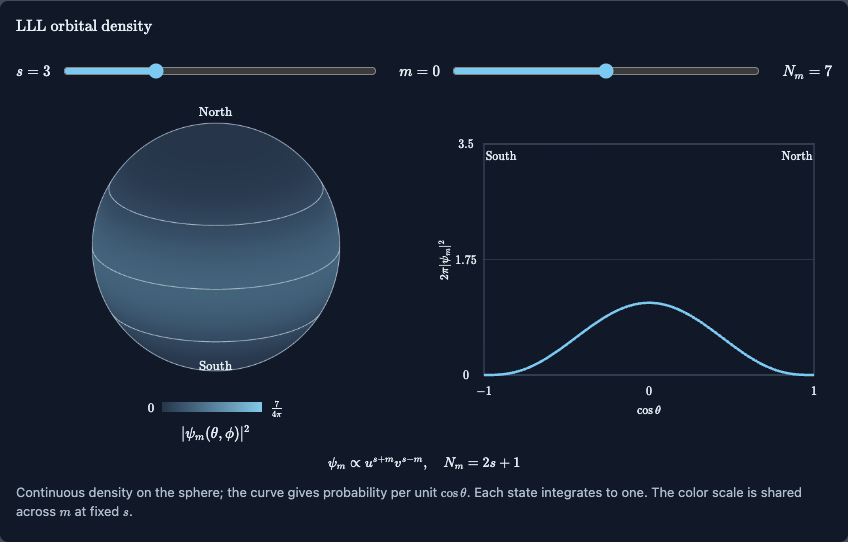
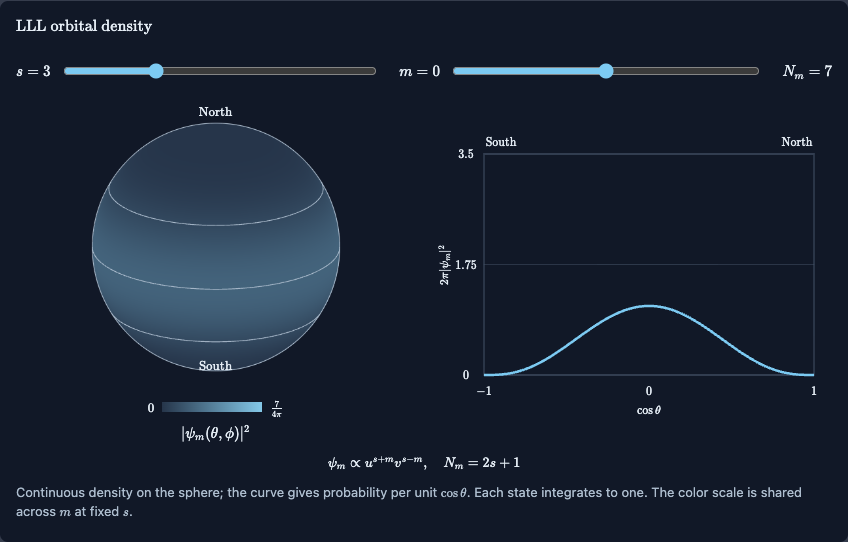
Keep orbital endpoint labels clear of density curves

diff --git a/public/notes/fuzzy-sphere-3d-cft/visuals/visuals.js b/public/notes/fuzzy-sphere-3d-cft/visuals/visuals.js
@@ -6,7 +6,7 @@
   const node=(name,attrs,parent)=>{const el=document.createElementNS(NS,name);Object.entries(attrs).forEach(([k,v])=>el.setAttribute(k,String(v)));parent.append(el);return el;};
   function plot(id, ymax, xticks, yticks, xlabel, ylabel, domain=null) {
     const root=document.getElementById(id);root.replaceChildren();
-    const w=root.clientWidth,h=root.clientHeight,box={left:51,top:16,right:w-18,bottom:h-43};
+    const w=root.clientWidth,h=root.clientHeight,box={left:51,top:id==='profile'?26:16,right:w-18,bottom:h-43};
     const svg=node('svg',{viewBox:`0 0 ${w} ${h}`,role:'img','aria-label':id==='profile'?'Normalized latitude probability density':'Scaling dimensions versus spin'},root);
     const label=(value,x,y,cls='')=>{const el=document.createElement('span');el.className='plot-label '+cls;el.style.left=x+'px';el.style.top=y+'px';tex(el,value);root.append(el);return el;};
     const xlo=domain?domain[0]:xticks[0],xhi=domain?domain[1]:xticks[xticks.length-1];
@@ -64,7 +64,7 @@
       const p=plot('profile',ceiling,[-1,0,1],[0,Number((ceiling/2).toFixed(2)),ceiling],'\\cos\\theta','2\\pi|\\psi_m|^2');
       const points=Array.from({length:301},(_,i)=>{const z=-1+2*i/300;return [p.x(z),p.y(prob(s,m,z))];});
       node('path',{d:points.map(([x,y],i)=>(i?'L':'M')+x.toFixed(2)+','+y.toFixed(2)).join(' '),fill:'none',stroke:'var(--accent)','stroke-width':2.5},p.svg);
-      p.label('\\text{South}',p.x(-1)+17,p.box.top+12);p.label('\\text{North}',p.x(1)-17,p.box.top+12);
+      p.label('\\text{South}',p.x(-1)+17,p.box.top-12);p.label('\\text{North}',p.x(1)-17,p.box.top-12);
       canvas.setAttribute('aria-label',`Probability density for s=${s}, m=${m}; ${m===s?'concentrated near the north pole':m===-s?'concentrated near the south pole':'a continuous latitude distribution'}.`);
     }
     spin.addEventListener('input',()=>{const s=Number(spin.value);input.min=-s;input.max=s;input.value=String(Math.max(-s,Math.min(s,Number(input.value))));draw();});
